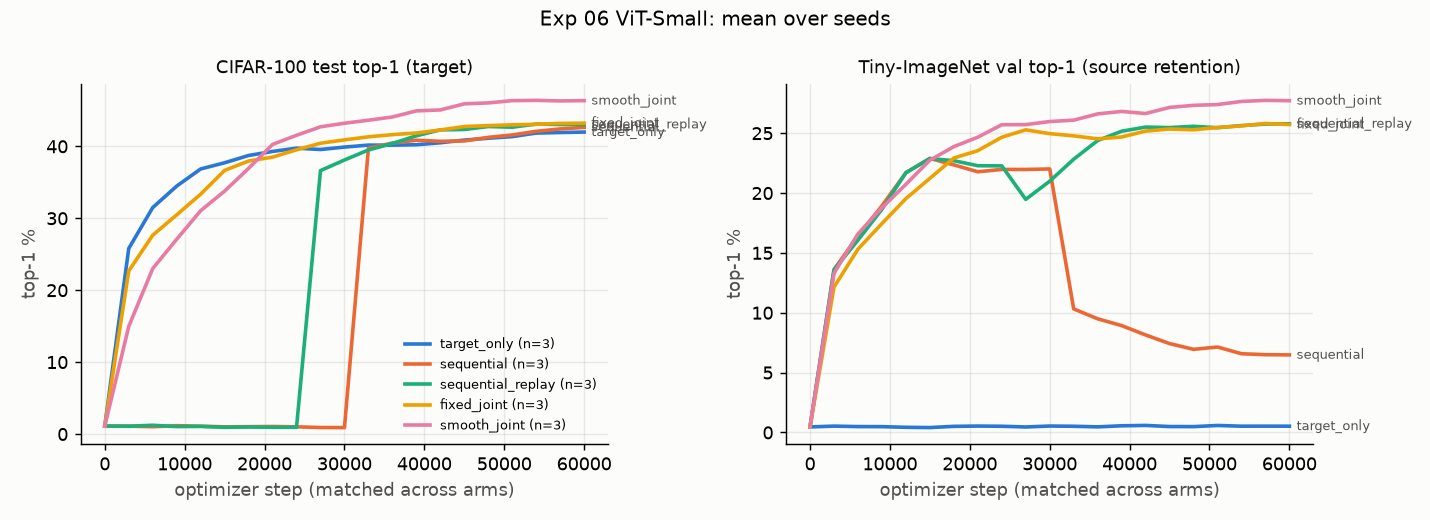
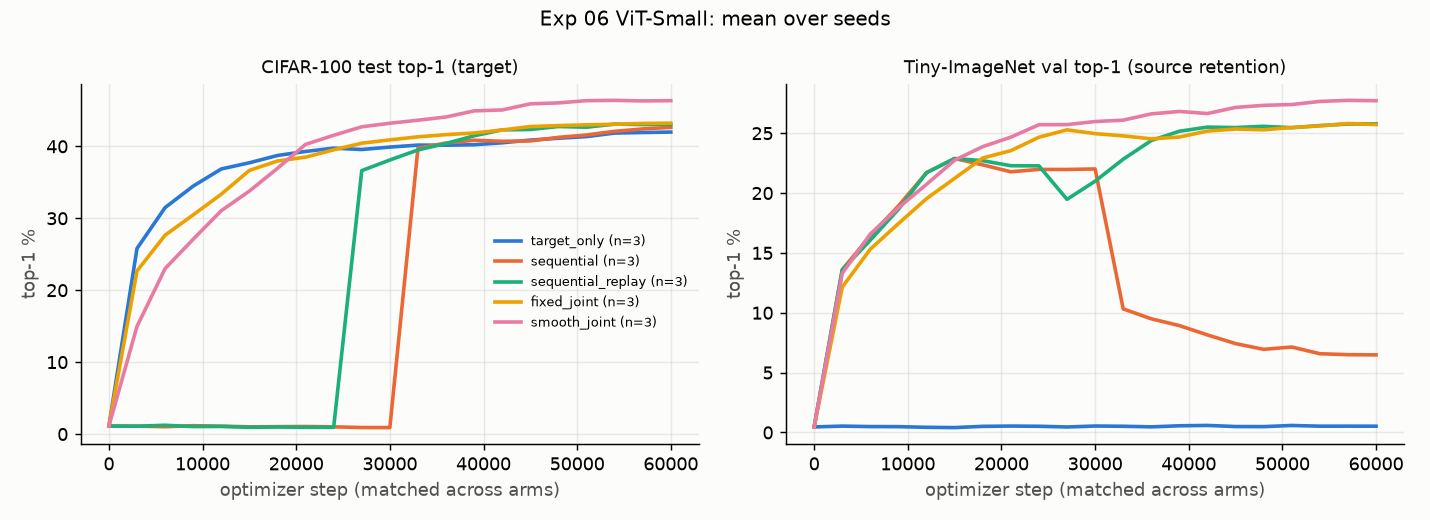
Exp 06: README status DONE, soften verdict wording, replot curves with legend, cc.md run note

diff --git a/experiments/06_vision_scratch_joint_vs_posttrain/analysis/replot.py b/experiments/06_vision_scratch_joint_vs_posttrain/analysis/replot.py
@@ -1,0 +1,58 @@
+"""Redraw curves_{tiny,small}.png from the raw runs with the legend only (no overlapping end labels).
+
+Plot-only; reads the same curve.jsonl files as expt_v1/analyze.py and changes no number.
+Usage: python replot.py --runs <exp06 runs dir> --out <this analysis dir>
+"""
+import argparse
+import json
+import sys
+from pathlib import Path
+
+sys.path.insert(0, str(Path(__file__).resolve().parent.parent / 'expt_v1'))
+from analyze import ARMS, COLORS  # noqa: E402
+import matplotlib  # noqa: E402
+matplotlib.use('Agg')
+import matplotlib.pyplot as plt  # noqa: E402
+
+
+def load(runs, model, arm):
+    out = []
+    for d in sorted((runs / model / arm).glob('seed*')):
+        if (d / 'final.json').exists() and (d / 'curve.jsonl').exists():
+            out.append([json.loads(l) for l in (d / 'curve.jsonl').read_text().splitlines() if l.strip()])
+    return out
+
+
+def main():
+    ap = argparse.ArgumentParser(description=__doc__)
+    ap.add_argument('--runs', required=True)
+    ap.add_argument('--out', required=True)
+    a = ap.parse_args()
+    for model in ('tiny', 'small'):
+        fig, axes = plt.subplots(1, 2, figsize=(11, 4), facecolor='#fcfcfb')
+        for ax, key, title in ((axes[0], 'cifar100_test_top1', 'CIFAR-100 test top-1 (target)'),
+                               (axes[1], 'tin200_val_top1', 'Tiny-ImageNet val top-1 (source retention)')):
+            for arm in ARMS:
+                curves = load(Path(a.runs), model, arm)
+                if not curves:
+                    continue
+                n = min(len(c) for c in curves)
+                steps = [curves[0][i]['step'] for i in range(n)]
+                mean = [sum(c[i][key] for c in curves) / len(curves) for i in range(n)]
+                ax.plot(steps, mean, color=COLORS[arm], lw=2, label=f'{arm} (n={len(curves)})')
+            ax.set_title(title, fontsize=10, color='#0b0b0b')
+            ax.set_xlabel('optimizer step (matched across arms)', color='#52514e')
+            ax.set_ylabel('top-1 %', color='#52514e')
+            ax.grid(alpha=0.25)
+            ax.set_facecolor('#fcfcfb')
+            for s in ('top', 'right'):
+                ax.spines[s].set_visible(False)
+        axes[0].legend(fontsize=7, frameon=False, loc='center right', bbox_to_anchor=(1.0, 0.45))
+        fig.suptitle(f'Exp 06 ViT-{model.capitalize()}: mean over seeds', fontsize=11)
+        fig.tight_layout()
+        fig.savefig(Path(a.out) / f'curves_{model}.png', dpi=130)
+        plt.close(fig)
+
+
+if __name__ == '__main__':
+    main()

diff --git a/experiments/06_vision_scratch_joint_vs_posttrain/results.md b/experiments/06_vision_scratch_joint_vs_posttrain/results.md
@@ -12,7 +12,7 @@ Denominator: 30 prospective cells (2 models x 5 arms x 3 seeds). Completed: 30; 
   97.5% interval [-2.36, +5.16] (n=3 seeds). The interval is too wide for "better" and not above the -1.0 pp non-inferiority margin.
 - **H2 (joint retains more Tiny-ImageNet): supported** at ViT-Tiny. +30.10 pp, 95% interval [28.55, 31.66]. Sequential drops to 7.8% on the source task.
 - **Scale check (ViT-Small): same verdicts** (H1 inconclusive, +3.72 pp, [-3.03, +10.46]; H2 supported, +21.23 pp, [16.52, 25.95]), so both replicate as the same verdict class.
-- Against Brando's claim: nothing counts against it ("sequential better" occurs at neither size). H1 is not shown, only H2. The claim is supported for retention, not for target accuracy, in this setting (small ViTs, 32px, one source/target pair, one recipe, 3 seeds).
+- Against Brando's claim (from-scratch joint training beats pretrain-then-post-train): the retention advantage is clear; the target-accuracy advantage is not shown at 3 seeds. "Sequential better" occurs at neither size, but H1 stays inconclusive. The stronger baseline, sequential_replay, nearly closes the retention gap. Scope: small ViTs, 32px, one source/target pair, one recipe, 3 seeds.
 
 ## Findings
 
@@ -22,7 +22,7 @@ Denominator: 30 prospective cells (2 models x 5 arms x 3 seeds). Completed: 30; 
 - smooth_joint at ViT-Small has a wide spread across seeds (43.80, 46.44, 48.82) and drives that cell's wide interval. The other four arms are tight (within about 1 pp).
 - Sequential's forgetting is visible in the curves: Tiny-ImageNet falls from ~35% to ~8% right after the switch at step 30,000.
 
-Plots (accuracy vs optimizer step, mean over seeds, one line per arm): `analysis/curves_tiny.png`, `analysis/curves_small.png`.
+Plots (accuracy vs optimizer step, mean over seeds, one line per arm): `analysis/curves_tiny.png`, `analysis/curves_small.png`. Redrawn with `analysis/replot.py` (legend instead of overlapping end labels); no number changed.
 
 ## Per-seed results
 

diff --git a/experiments/06_vision_scratch_joint_vs_posttrain/README.md b/experiments/06_vision_scratch_joint_vs_posttrain/README.md
@@ -9,8 +9,9 @@ steps and batch size, with identical source exposure across the four source-usin
 Question: does joint training from step 0 match or beat pretrain-then-finetune on the target while forgetting less
 of the source? Transformers only.
 
-**Status:** PREPARATION — protocol frozen; 30 cells, none launched.
-**Last updated:** 10-20-2026 PDT
+**Status:** DONE — 30/30 cells complete on Sherlock V100 (fp16).
+**Verdict:** H1 (joint >= sequential on CIFAR-100) inconclusive at 3 seeds; H2 (joint retains more Tiny-ImageNet) supported, at ViT-Tiny and ViT-Small. See [results.md](results.md).
+**Last updated:** 10-21-2026 PDT
 
 ## Structure
 
@@ -18,6 +19,9 @@ of the source? Transformers only.
 06_vision_scratch_joint_vs_posttrain/
   README.md
   results.md
+  analysis/
+    tables.md, per_seed.md, analysis.json, jobs.txt, curves_tiny.png, curves_small.png
+    replot.py          redraws the two curve plots with a legend instead of end labels (plot only)
   expt_v1/
     PROTOCOL.md        frozen design, hypotheses H1/H2, decision rules, budget, failed-cell rules
     cc.md              execution runbook (FarmShare L40S primary, Sherlock V100 fallback)
@@ -40,6 +44,6 @@ of the source? Transformers only.
 |---|---|
 | Design and frozen protocol | Done (expt_v1/PROTOCOL.md) |
 | Local CPU smoke | Done (synthetic data) |
-| Data prep and GPU smoke | Pending |
-| 30-cell execution | Pending |
-| Analysis | Pending |
+| Data prep and GPU smoke | Done (Sherlock V100) |
+| 30-cell execution | Done (30/30, 0 failed) |
+| Analysis | Done (results.md, analysis/) |

diff --git a/experiments/06_vision_scratch_joint_vs_posttrain/expt_v1/cc.md b/experiments/06_vision_scratch_joint_vs_posttrain/expt_v1/cc.md
@@ -13,6 +13,8 @@ Primary: FarmShare (L40S, bf16). Fallback: Sherlock V100 (fp16) if FarmShare's G
 Limits: FarmShare QOS gpu allows 4 running GPU jobs and 32 submitted per user (30 array tasks fit; the post job runs on
 `normal`); 2-day wall. Sherlock: `-p gpu -C GPU_GEN:VLT`, `dev` refuses sbatch so prep/smoke run via `srun -p dev`.
 
+**Run used:** the Sherlock V100 fallback (fp16), 30/30 cells; results in [../results.md](../results.md).
+
 ## Steps (from the unpacked `expt_v1/` folder)
 
 1. `bash submit_exp06.sh build` — venv; check the printed torch/torchvision versions (FarmShare: wait for the job).
